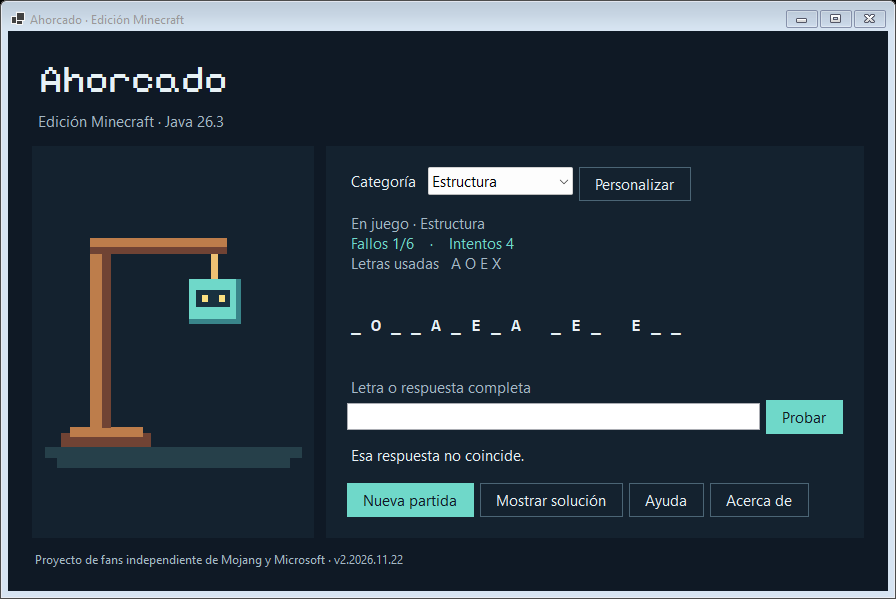
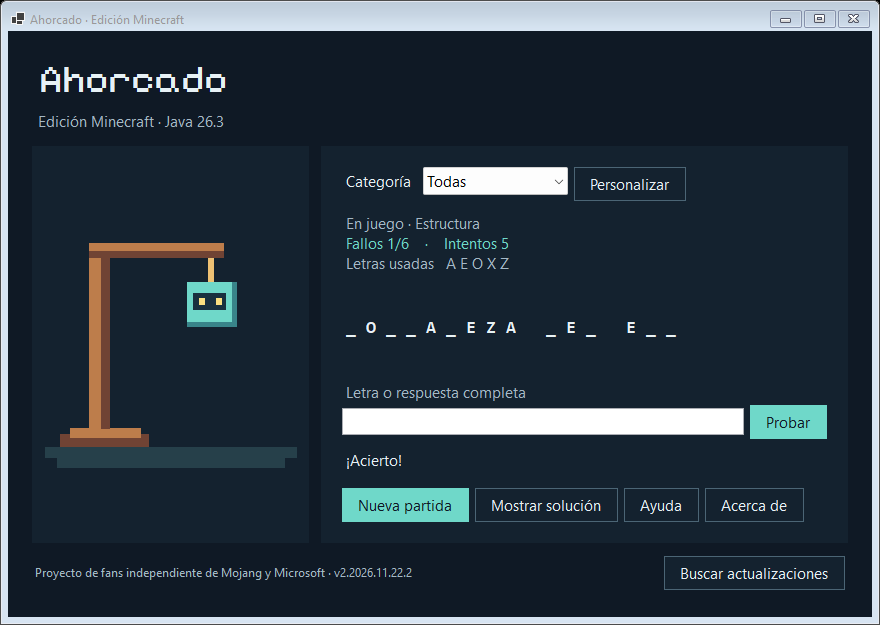
Corrige la palabra al reducir la ventana y añade búsqueda de actualizaciones

diff --git a/src/Ahorcado/VentanaJuego.cs b/src/Ahorcado/VentanaJuego.cs
@@ -1,4 +1,7 @@
+using System.ComponentModel;
+using System.Diagnostics;
 using System.Drawing;
+using System.Text.Json;
 
 namespace Ahorcado;
 
@@ -33,8 +36,8 @@ internal sealed class VentanaJuego : Form
         this.fuente = fuente;
         Text = "Ahorcado · Edición Minecraft";
         StartPosition = FormStartPosition.CenterScreen;
-        ClientSize = new Size(880, 560);
-        MinimumSize = new Size(780, 540);
+        ClientSize = new Size(920, 620);
+        MinimumSize = new Size(880, 625);
         AutoScaleMode = AutoScaleMode.Dpi;
         BackColor = Fondo;
         ForeColor = Texto;
@@ -69,8 +72,17 @@ internal sealed class VentanaJuego : Form
         var aviso = Etiqueta($"Proyecto de fans independiente de Mojang y Microsoft · v{Application.ProductVersion}");
         aviso.ForeColor = Secundario;
         aviso.Font = new Font(Font.FontFamily, 9);
-        aviso.Margin = new Padding(0, 14, 0, 0);
-        layout.Controls.Add(aviso, 0, 3);
+        aviso.Anchor = AnchorStyles.Left;
+        aviso.Margin = new Padding(0);
+        var actualizar = Boton("Buscar actualizaciones");
+        actualizar.Anchor = AnchorStyles.Right;
+        actualizar.Click += async (_, _) => await BuscarActualizaciones(actualizar);
+        var pie = new TableLayoutPanel { Dock = DockStyle.Top, AutoSize = true, ColumnCount = 2, Margin = new Padding(0, 10, 0, 0) };
+        pie.ColumnStyles.Add(new ColumnStyle(SizeType.Percent, 100));
+        pie.ColumnStyles.Add(new ColumnStyle(SizeType.AutoSize));
+        pie.Controls.Add(aviso, 0, 0);
+        pie.Controls.Add(actualizar, 1, 0);
+        layout.Controls.Add(pie, 0, 3);
 
         nueva.Click += (_, _) => Comenzar();
         enviar.Click += (_, _) => Probar();
@@ -106,6 +118,7 @@ internal sealed class VentanaJuego : Form
         letras.ForeColor = Secundario;
         mascara.Font = fuenteMascara;
         mascara.ForeColor = Texto;
+        mascara.MinimumSize = new Size(0, 74);
         mascara.Margin = new Padding(3, 4, 3, 4);
         panel.Controls.Add(intentos, 0, 2);
         panel.Controls.Add(letras, 0, 3);
@@ -151,6 +164,47 @@ internal sealed class VentanaJuego : Form
         };
         boton.FlatAppearance.BorderColor = principal ? Acento : Color.FromArgb(75, 101, 117);
         return boton;
+    }
+
+    private async Task BuscarActualizaciones(Button boton)
+    {
+        const string titulo = "Buscar actualizaciones";
+        boton.Enabled = false;
+        boton.Text = "Buscando…";
+        try
+        {
+            var disponible = await Actualizaciones.Buscar(Application.ProductVersion);
+            if (IsDisposed) return;
+            if (disponible is null)
+            {
+                MessageBox.Show(this, $"Tienes la última versión disponible ({Application.ProductVersion}).",
+                    titulo, MessageBoxButtons.OK, MessageBoxIcon.Information);
+                return;
+            }
+
+            if (MessageBox.Show(this, $"Está disponible la versión {disponible.Version}. ¿Abrir su página de descarga en GitHub?",
+                titulo, MessageBoxButtons.YesNo, MessageBoxIcon.Information) == DialogResult.Yes)
+                Process.Start(new ProcessStartInfo(disponible.Pagina.AbsoluteUri) { UseShellExecute = true });
+        }
+        catch (Exception error) when (error is HttpRequestException or OperationCanceledException or IOException or JsonException)
+        {
+            if (!IsDisposed)
+                MessageBox.Show(this, "No se pudo comprobar la actualización. Revisa tu conexión y vuelve a intentarlo.",
+                    titulo, MessageBoxButtons.OK, MessageBoxIcon.Warning);
+        }
+        catch (Win32Exception)
+        {
+            MessageBox.Show(this, "Windows no pudo abrir el navegador. Puedes consultar la publicación en GitHub.",
+                titulo, MessageBoxButtons.OK, MessageBoxIcon.Warning);
+        }
+        finally
+        {
+            if (!IsDisposed)
+            {
+                boton.Text = titulo;
+                boton.Enabled = true;
+            }
+        }
     }
 
     private void Comenzar()

diff --git a/src/Ahorcado/Actualizaciones.cs b/src/Ahorcado/Actualizaciones.cs
@@ -1,0 +1,62 @@
+using System.Globalization;
+using System.Text.Json;
+using System.Text.Json.Serialization;
+
+namespace Ahorcado;
+
+internal static class Actualizaciones
+{
+    private const string Repositorio = "davidmotog/Minecraft-Ahorcado-Edition-";
+    private static readonly HttpClient Http = CrearCliente();
+
+    internal sealed record Disponible(string Version, Uri Pagina);
+    private sealed record Publicacion(
+        [property: JsonPropertyName("tag_name")] string Etiqueta,
+        [property: JsonPropertyName("draft")] bool Borrador,
+        [property: JsonPropertyName("prerelease")] bool Preliminar);
+
+    private static HttpClient CrearCliente()
+    {
+        var cliente = new HttpClient(new HttpClientHandler { AllowAutoRedirect = false })
+        {
+            Timeout = TimeSpan.FromSeconds(10),
+            MaxResponseContentBufferSize = 1024 * 1024
+        };
+        cliente.DefaultRequestHeaders.UserAgent.ParseAdd("Ahorcado-Windows/2");
+        cliente.DefaultRequestHeaders.Accept.ParseAdd("application/vnd.github+json");
+        return cliente;
+    }
+
+    public static async Task<Disponible?> Buscar(string actual)
+    {
+        string json = await Http.GetStringAsync($"https://api.github.com/repos/{Repositorio}/releases/latest")
+            .ConfigureAwait(false);
+        return Evaluar(actual, json);
+    }
+
+    internal static Disponible? Evaluar(string actual, string json)
+    {
+        var publicacion = JsonSerializer.Deserialize<Publicacion>(json);
+        if (publicacion is null || publicacion.Borrador || publicacion.Preliminar) return null;
+        if (!LeerVersion(actual, out var instalada) || !LeerVersion(publicacion.Etiqueta, out var publicada))
+            throw new InvalidDataException("No se pudo interpretar la versión de Ahorcado.");
+        if (publicada.CompareTo(instalada) <= 0) return null;
+
+        return new Disponible(publicacion.Etiqueta.TrimStart('v'),
+            new Uri($"https://github.com/{Repositorio}/releases/tag/{publicacion.Etiqueta}"));
+    }
+
+    private static bool LeerVersion(string? texto, out (Version Fecha, int Correccion) version)
+    {
+        version = default;
+        var partes = texto?.TrimStart('v').Split('.');
+        if (partes is not { Length: 4 or 5 } ||
+            partes.Any(p => !int.TryParse(p, NumberStyles.None, CultureInfo.InvariantCulture, out _)) ||
+            !Version.TryParse(string.Join('.', partes.Take(4)), out var fecha))
+            return false;
+
+        int correccion = partes.Length == 5 ? int.Parse(partes[4], CultureInfo.InvariantCulture) : 0;
+        version = (fecha, correccion);
+        return true;
+    }
+}

diff --git a/tests/Ahorcado.Pruebas/Program.cs b/tests/Ahorcado.Pruebas/Program.cs
@@ -59,4 +59,17 @@ var alias = new Partida(allay.Nombre, allay.Alias);
 Verificar(alias.Probar("anima") == ResultadoJugada.Acierto && alias.Estado == EstadoPartida.Ganada,
     "Un alias admite tildes omitidas.");
 
-Console.WriteLine("Pruebas del juego correctas.");
+static string Publicacion(string etiqueta, bool preliminar = false) =>
+    System.Text.Json.JsonSerializer.Serialize(new { tag_name = etiqueta, prerelease = preliminar });
+
+const string actual = "2.2026.11.22.2";
+Verificar(Actualizaciones.Evaluar(actual, Publicacion("v2.2026.11.22")) is null, "La versión del mismo día sin corrección es anterior.");
+Verificar(Actualizaciones.Evaluar(actual, Publicacion("v2.2026.11.22.2")) is null, "La misma versión está al día.");
+Verificar(Actualizaciones.Evaluar(actual, Publicacion("v2.2026.11.22.10")) is { Version: "2.2026.11.22.10" },
+    "El número de corrección se compara como entero.");
+Verificar(Actualizaciones.Evaluar(actual, Publicacion("v2.2026.11.23"))?.Pagina.AbsolutePath.EndsWith("/v2.2026.11.23") == true,
+    "Una fecha posterior ofrece su página de descarga.");
+Verificar(Actualizaciones.Evaluar(actual, Publicacion("alfa2.0", preliminar: true)) is null,
+    "Una publicación histórica no se ofrece como actualización.");
+
+Console.WriteLine("Pruebas del juego y de versiones correctas.");

diff --git a/README.md b/README.md
@@ -4,6 +4,8 @@ Proyecto final de un curso de C# de [davidmotog](https://github.com/davidmotog).
 
 **[Descargar Ahorcado.exe para Windows x64](https://github.com/davidmotog/Minecraft-Ahorcado-Edition-/releases/latest/download/Ahorcado.exe)** · [Descargar en ZIP](https://github.com/davidmotog/Minecraft-Ahorcado-Edition-/releases/latest/download/Ahorcado-win-x64.zip)
 
+La [edición histórica Alfa 2.0](https://github.com/davidmotog/Minecraft-Ahorcado-Edition-/releases/tag/alfa2.0) conserva la interfaz y las reglas del proyecto original del curso. Se publica aparte para Windows x64.
+
 Proyecto de fans independiente de Mojang y Microsoft. [Directrices de uso de Minecraft](https://www.minecraft.net/es-es/usage-guidelines)
 
 ![Partida en curso de Ahorcado con el selector de categorías y el botón Personalizar](docs/partida.png)
@@ -14,6 +16,8 @@ Proyecto de fans independiente de Mojang y Microsoft. [Directrices de uso de Min
 2. Elige una categoría o deja **Todas**. Pulsa **Comenzar** y prueba una letra o escribe el nombre completo. Puedes pulsar **Intro** para enviar la respuesta.
 3. Hay seis fallos por partida. Las respuestas repetidas y las entradas inválidas se ignoran. Se admiten mayúsculas, minúsculas y respuestas sin tildes. La Ñ cuenta como letra distinta de la N.
 4. Al ganar, se abre una ficha con la respuesta, su categoría y un enlace a sus imágenes. Pulsa **Mostrar solución** para revelar una respuesta, o **Nueva partida** para jugar de nuevo.
+
+Usa **Buscar actualizaciones**, en la parte inferior, para consultar la última versión estable de GitHub. Si hay una más reciente, puedes abrir su página de descarga desde el aviso.
 
 ## Skins e imágenes
 
